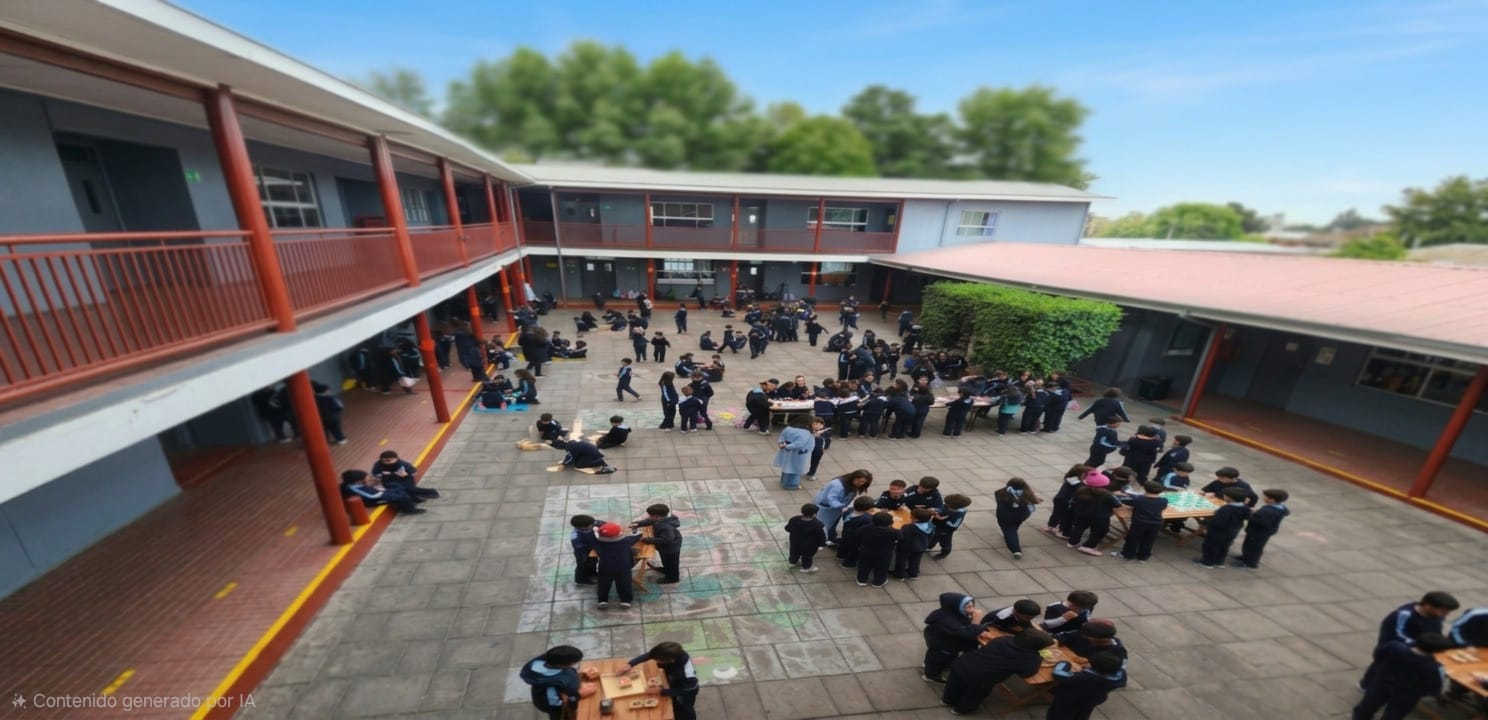
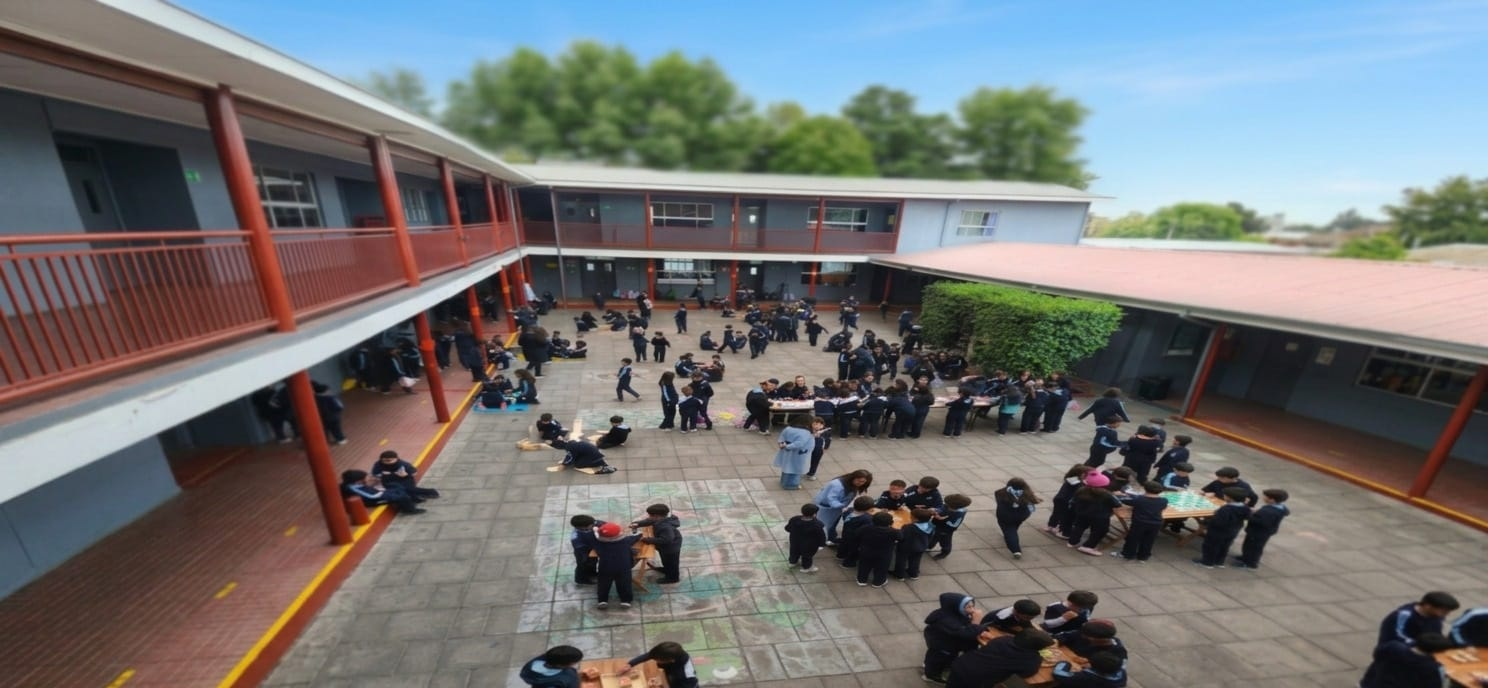
mejoras home

diff --git a/backend/api_entradas.js b/backend/api_entradas.js
@@ -674,6 +674,43 @@ router.get('/entrada/imagen', apiKeyAuth, async (req, res) => {
   }
 });
 
+// 7b. POST Imagen del Ticket (para test/preview sin API key)
+router.post('/entrada/imagen', async (req, res) => {
+  const tag = '[POST /api/entrada/imagen]';
+  const url_server = config_env.URL_SERVER || 'https://registro-patrona.onrender.com';
+  try {
+    const { familia, nombre_completo, colores, folio, total, num_listado, curso, jornada, tipo } = req.body;
+
+    const ticketData = {
+      url_server,
+      id_organizacion: 'test',
+      id_evento: 'test',
+      imagen_ticket_path: './img/ticket_fiesta_chilena_2026.png',
+      familia,
+      nombre_completo,
+      folio: parseInt(folio),
+      num_listado: parseInt(num_listado) || 0,
+      curso,
+      jornada,
+      tipo,
+      bloques: colores
+    };
+
+    const result = await genEntradaCanvas(ticketData);
+
+    if (result && result[0]) {
+      res.set('Content-Type', 'image/png');
+      res.send(result[0]);
+    } else {
+      console.log(`${tag} image buffer null`);
+      res.status(500).json({ error: 'Error: imagen no disponible' });
+    }
+  } catch (err) {
+    console.error(`${tag}`, err);
+    res.status(500).json({ error: err.message || 'Error generando ticket' });
+  }
+});
+
 
 // 8. Get tickets de una familia
 router.get('/entrada/familia', apiKeyAuth, async (req, res) => {

diff --git a/public/index.html b/public/index.html
@@ -218,7 +218,7 @@
     .credit-label {
       position: fixed;
       bottom: 10px;
-      right: 14px;
+      left: 14px;
       font-size: 0.7rem;
       color: rgba(255,255,255,0.4);
       z-index: 10;
@@ -318,7 +318,7 @@
   </div>
 </div>
 
-<label class="credit-label">by registro-online</label>
+<label class="credit-label"><strong>Desarrollado por Leonardo Herrera / Italo Morales</strong><br><strong>PO Patricio Alarcon</strong></label>
 
 <script>
   const correoManual = document.getElementById('correoManual');
